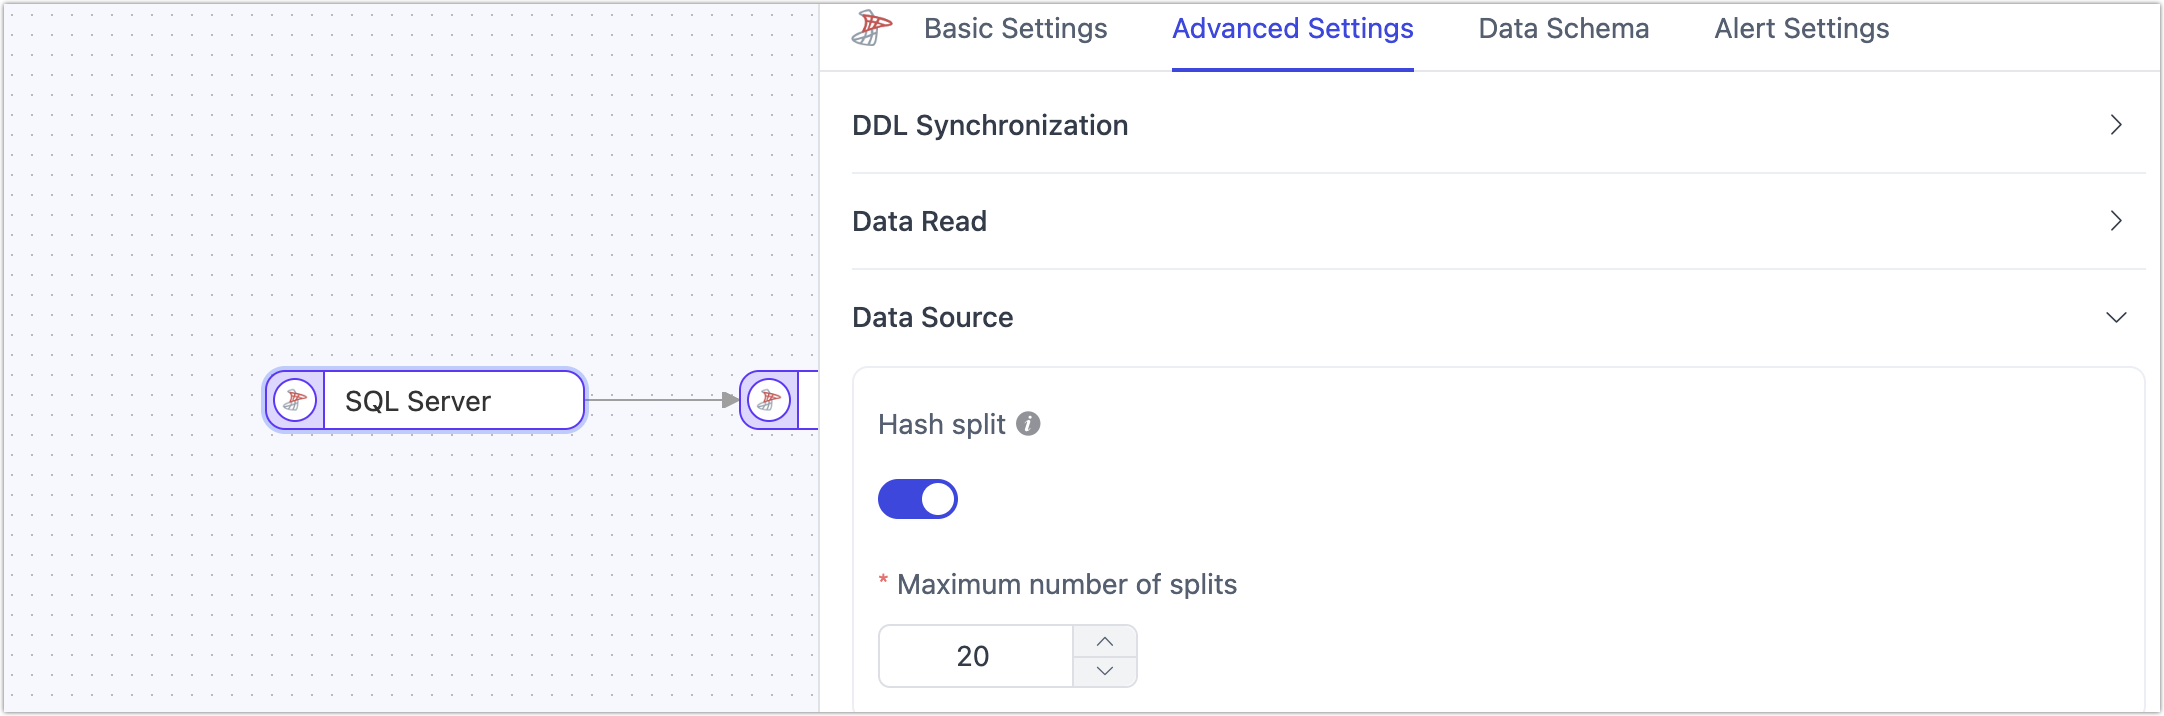
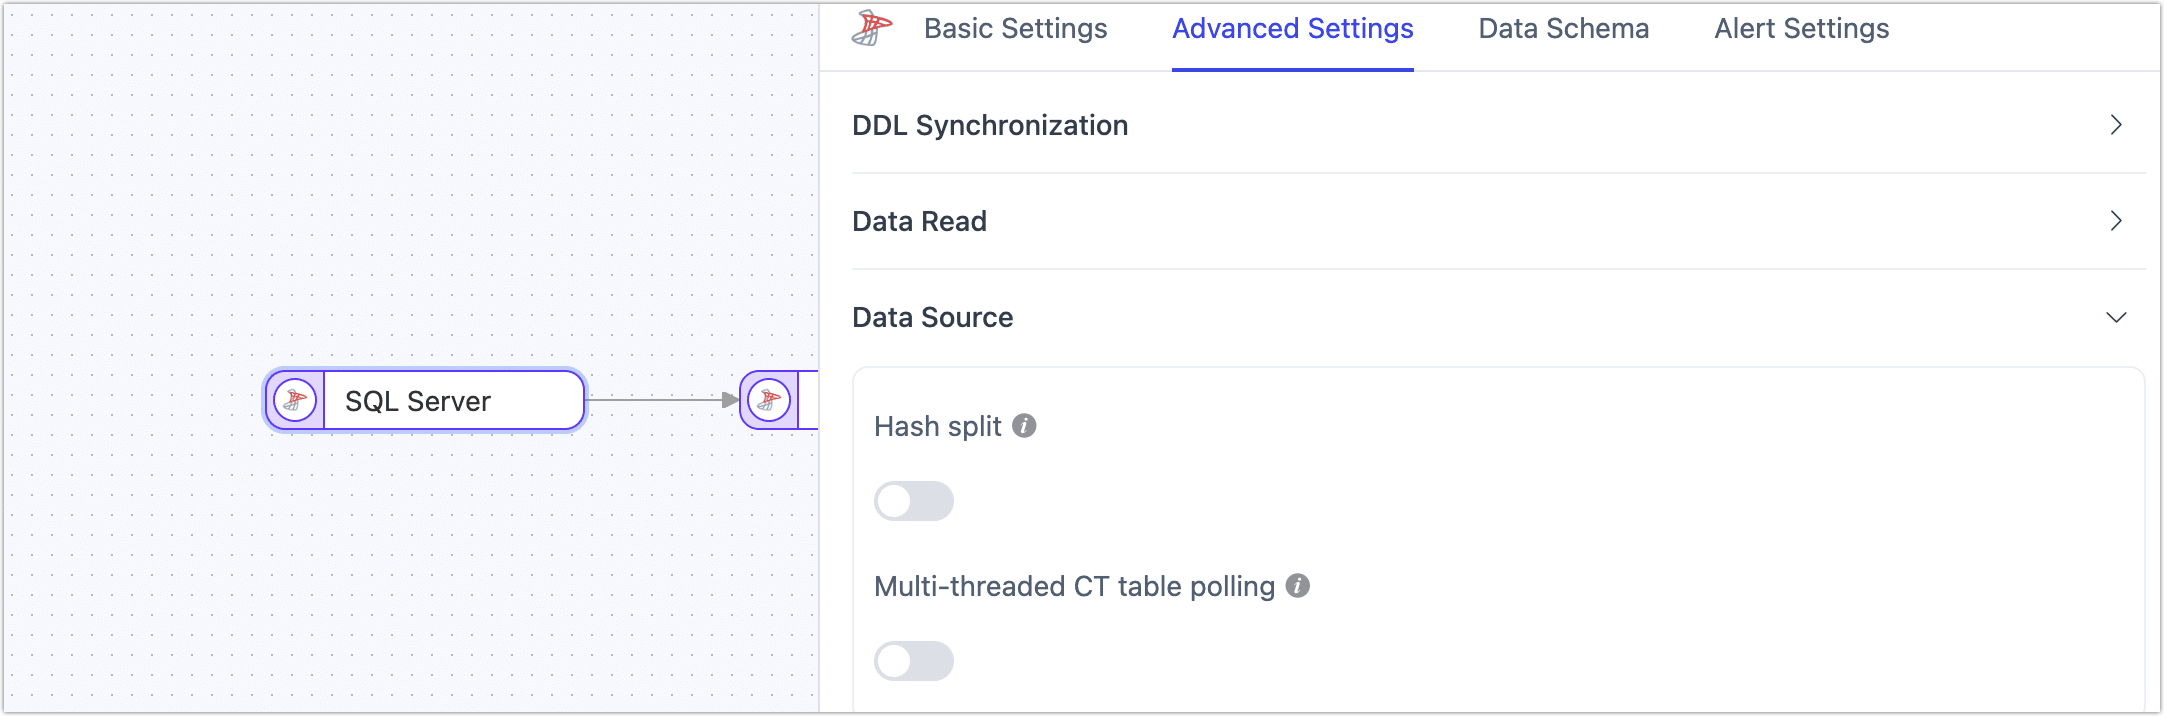
Release 2024-10-17

diff --git a/docs/release-notes/release-notes-on-prem.md b/docs/release-notes/release-notes-on-prem.md
@@ -4,6 +4,27 @@ import Content from '../reuse-content/_enterprise-features.md';
 
 <Content />
 
+## 3.15
+
+### New Features
+
+* Kafka-Enhanced and TiDB have passed the TapData certification testing process and have been upgraded to [Certified Data Sources](../prerequisites/supported-databases), providing more advanced features and enhanced production stability.
+
+### Enhancements
+
+- Added a [Multi-threaded CT Table Polling](../prerequisites/on-prem-databases/sqlserver#advanced-settings) option to improve incremental data collection performance for SQL Server environments with a large number of tables (over 500), significantly increasing synchronization efficiency.
+- Optimized the cache management logic for processing nodes, enhancing resource usage efficiency and improving task execution speed.
+- Introduced an automatic retry mechanism for Oracle LogMiner errors caused by exceeding PGA limits, improving fault tolerance.
+
+### Bug Fixes
+
+- Fixed an issue where, after enabling the heartbeat table, tasks displayed no delay but data was not synchronized.
+- Fixed an issue where not all tags could be viewed when setting tags.
+- Fixed an issue where the task retry start time was incorrectly displayed as 1970.
+- Fixed an issue where index creation failed when Elasticsearch was used as the target database.
+- Fixed an issue in verification tasks where a full re-verification was triggered when there was a discrepancy in the comparison results.
+- Fixed an issue where the detailed download was empty when verification tasks showed inconsistent results in the associated key verification.
+
 ## 3.14
 
 ### New Features

diff --git a/docs/release-notes/release-notes-cloud.md b/docs/release-notes/release-notes-cloud.md
@@ -6,6 +6,25 @@ import Content from '../reuse-content/_cloud-features.md';
 
 To enhance the user experience, TapData Cloud continuously enriches and optimizes product features and rectifies known defects by releasing new versions. This article provides an update log for TapData Cloud, helping you grasp the new feature specifications more effectively.
 
+### 2024-10-17
+
+#### New Features
+
+* Kafka-Enhanced and TiDB have passed the TapData certification testing process and have been upgraded to [Certified Data Sources](../prerequisites/supported-databases), providing more advanced features and enhanced production stability.
+
+#### Enhancements
+
+- Added a [Multi-threaded CT Table Polling](../prerequisites/on-prem-databases/sqlserver#advanced-settings) option to improve incremental data collection performance for SQL Server environments with a large number of tables (over 500), significantly increasing synchronization efficiency.
+- Optimized the cache management logic for processing nodes, enhancing resource usage efficiency and improving task execution speed.
+- Introduced an automatic retry mechanism for Oracle LogMiner errors caused by exceeding PGA limits, improving fault tolerance.
+
+#### Bug Fixes
+
+- Fixed an issue where, after enabling the heartbeat table, tasks displayed no delay but data was not synchronized.
+- Fixed an issue where not all tags could be viewed when setting tags.
+- Fixed an issue where the task retry start time was incorrectly displayed as 1970.
+- Fixed an issue where index creation failed when Elasticsearch was used as the target database.
+
 ### 2024-10-10
 
 #### New Features

diff --git a/docs/prerequisites/on-prem-databases/sqlserver.md b/docs/prerequisites/on-prem-databases/sqlserver.md
@@ -315,11 +315,21 @@ After completing the configuration, be sure to securely store the certificate-re
 
    :::
 
-## Advanced Node Features
+## <span id="advanced-settings">Advanced Node Features</span>
 
-When configuring data synchronization or transformation tasks with SQL Server as a source node, you can enable **Hash Partitioning** and set the maximum number of partitions. During full synchronization, data is split into multiple partitions based on hash values and read concurrently to significantly improve performance, though it may increase the load on the database.
+When configuring SQL Server as the source node for a task, TapData provides several advanced features to enhance performance and handle complex scenarios:
 
-![Advanced Node Settings](../../images/sql_server_node_advanced_settings.png)
+![Node Advanced Settings](../../images/sql_server_node_advanced_settings.png)
+
+* **Hash Split**: Disabled by default. When enabled, TapData will split the data into multiple shards based on hash values during the full sync phase, allowing concurrent reads. This significantly improves read performance but increases the load on the database.
+
+* **Multi-threaded CT Table Polling**: Disabled by default. If the source SQL Server has a large number of tables (over 500) that need to be synchronized, enabling this option will optimize incremental data collection performance and improve synchronization efficiency.
+
+  :::tip
+
+  This feature is only supported when configuring data replication tasks.
+
+  :::
 
 ## Frequently Asked Questions
 

diff --git a/docs/release-notes/release-notes-community.md b/docs/release-notes/release-notes-community.md
@@ -6,6 +6,23 @@ import Content from '../reuse-content/_community-features.md';
 
 This document introduces the recent release notes for TapData Community. For more information on earlier versions, please refer to the [GitHub Release Page](https://github.com/tapdata/tapdata/releases).
 
+## 3.15
+
+### New Features
+
+* Kafka-Enhanced and TiDB have passed the TapData certification testing process and have been upgraded to [Certified Data Sources](../prerequisites/supported-databases), providing more advanced features and enhanced production stability.
+
+### Enhancements
+
+- Optimized the cache management logic for processing nodes, enhancing resource usage efficiency and improving task execution speed.
+
+### Bug Fixes
+
+- Fixed an issue where, after enabling the heartbeat table, tasks displayed no delay but data was not synchronized.
+- Fixed an issue where not all tags could be viewed when setting tags.
+- Fixed an issue where the task retry start time was incorrectly displayed as 1970.
+- Fixed an issue where index creation failed when Elasticsearch was used as the target database.
+
 ## 3.14
 
 ### New Features
